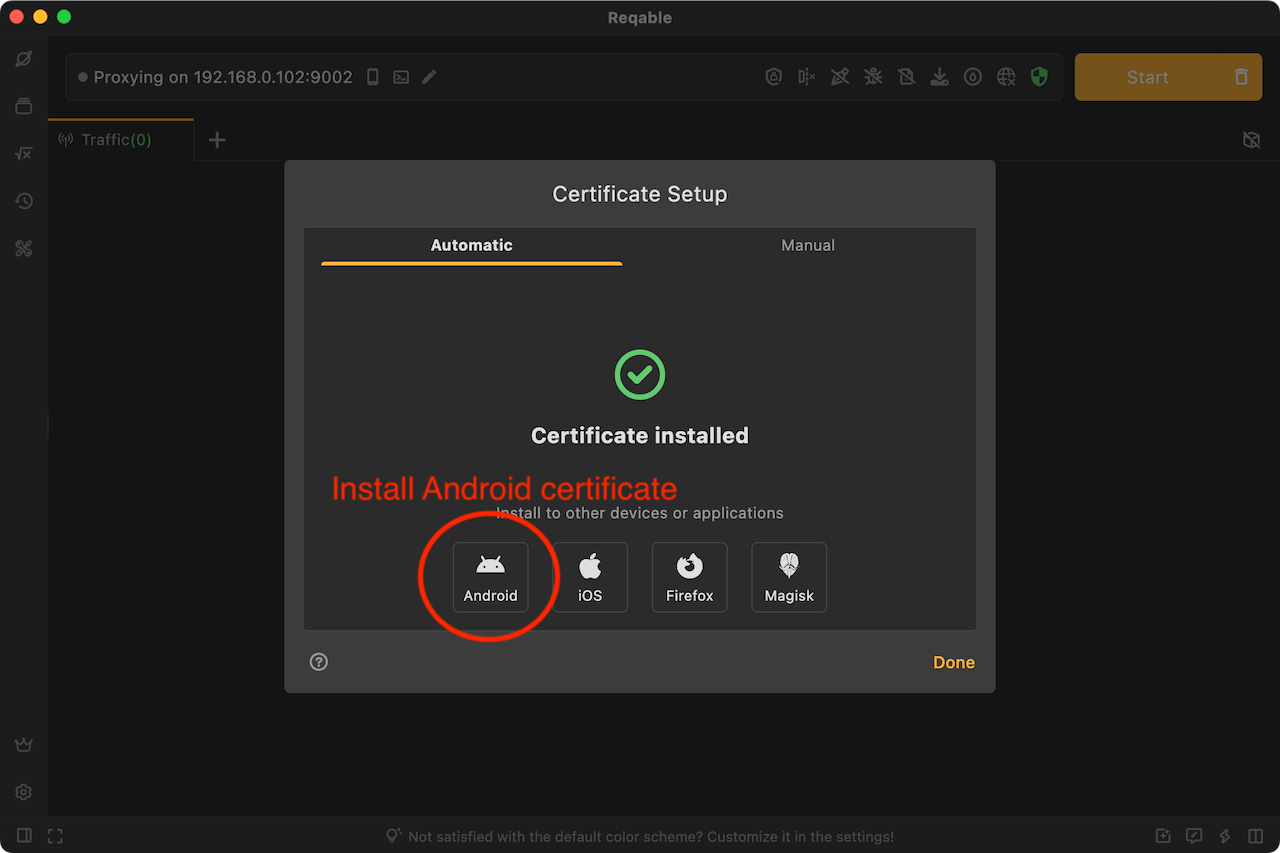
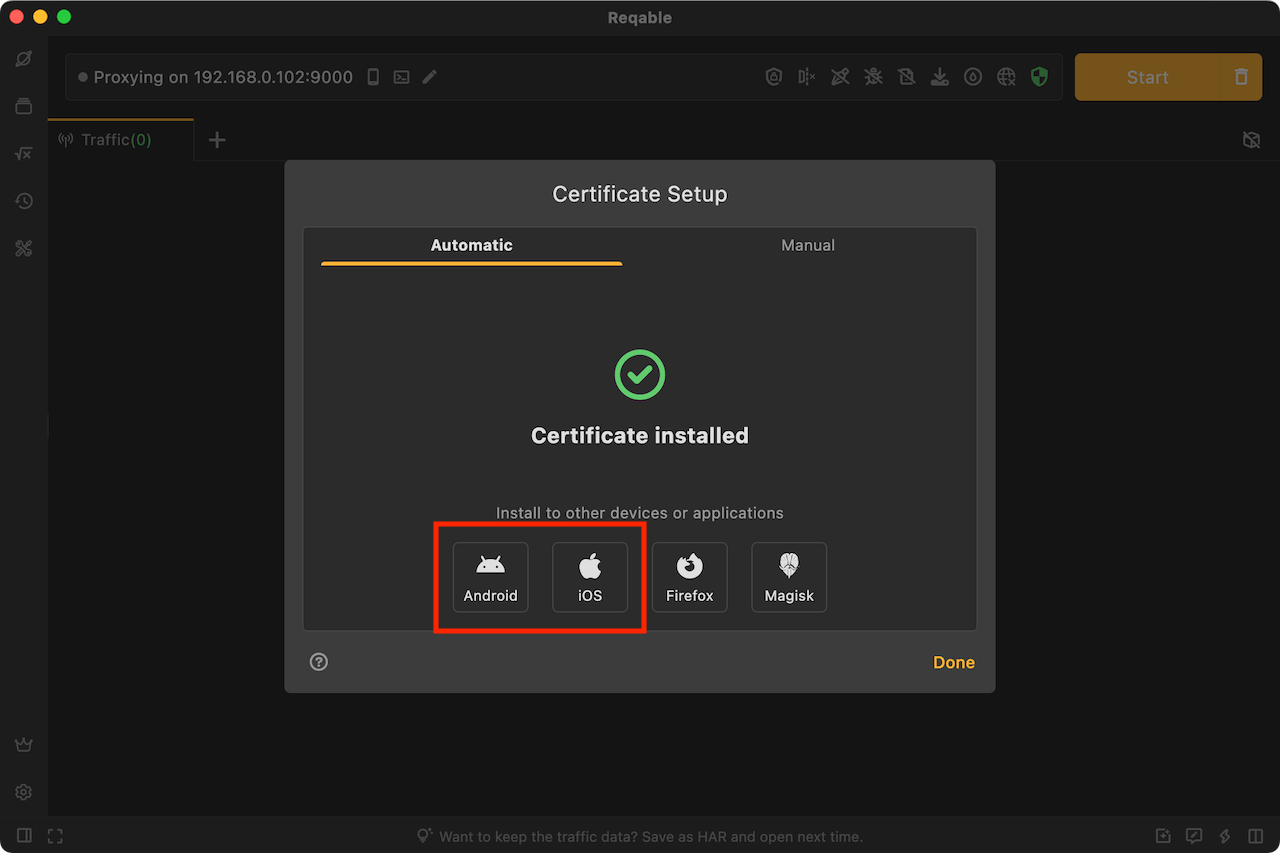
update docs

Changed region(s): [[0.25, 0.5487, 0.5312, 0.762], [0.3125, 0.9754, 0.6875, 1.0]]

diff --git a/en-US/getting-started/installation/index.md b/en-US/getting-started/installation/index.md
@@ -38,7 +38,9 @@ When the CA certificate is not installed or the installation fails, the shield i
 
 ## Mobile {#mobile}
 
-If you need to analyze mobile applications, you must install the CA certificate on the mobile device. We have built-in guidelines for installing Android and iOS certificates in Reqable. If you use desktop app, please switch to the tabs of `Android` and `iOS` to follow the steps to install. If you use mobile app, please goto `Side Menu` -> `Certificate Management` -> `Install Root Certificate to Local-Machine`, and choose a suitable solution to install.
+If you need to analyze mobile applications, you must install the CA certificate on the mobile device. We have built-in guidelines for installing Android and iOS certificates in Reqable.
+
+![](arts/installation_04.png)
 
 :::warning
 If you use the desktop app to analyze traffic, please install the CA root certificate on the computer to the mobile device; if you use the mobile app to analyze traffic directly, please install the CA root certificate on the mobile device.
@@ -52,35 +54,52 @@ After the mobile App is initialized and selects the collaborative mode and scans
 
 ### Android
 
-There are two types of Android certificates: user certificates and system certificates. User certificates are located in the `/data/misc/user/0/cacerts` directory, and system certificates are located in the `/system/etc/security/cacerts` directory. The user directory does not require additional permissions to be modified, while the system directory requires permissions to unlock the `system` partition to be modified. You can choose any appropriate certificate installation solution according to the following scenarios.
+There are two types of Android certificates: user certificate and system certificate. User certificates does not require additional permissions to install, while the system requires root permission to install.
 
-#### 1. Devices below Android 7.0
+Reqable requires that the user has installed the ADB tool on PC in advance. Reqable will use the ADB tool to check the certificate installation status of the Android device connected, including the system certificate status and the user certificate status.
 
-Devices below Android 7.0 trust user certificates by default. You can directly install the certificate to the user directory: Settings -> Security -> Encryption and Credentials -> Install Certificate -> CA Certificate, select the exported certificate and install it (authorization verification is required).
+![](arts/installation_05.png)
 
-#### 2. Rooted device and unlocked `system` partition
-
-Use the `adb` command to push the certificate to the system certificate directory. This certificate is in the `hash.0` format.
-
-```shell
-adb root
-# restarting adbd as root
-adb shell avbctl disable-verification
-adb remount
-adb push 364618e0.0 /system/etc/security/cacerts/364618e0.0
-```
-
-:::caution
-Since the Android 14 certificate is migrated to the `apex` module, this solution is only suitable for Android 13 and below.
+:::info About ADB
+Android Debug Bridge (ADB) is an Android device toolkit provided by Google and can be downloaded from the Android Developers [website](https://developer.android.google.cn/tools/adb), After downloading and installing, configure the `ANDROID_HOME` and `PATH` environment variables and restart Reqable.
 :::
 
-#### 3. Android project adds `trust-anchors`
+#### System Certificate
 
-If you are an Android developer and have the project write permission, you can directly install the certificate to the user directory, and then configure the project to trust the user directory certificate.
+Regardless of whether the device is rooted or not, Reqable can detect the installation status of the system certificate. However, only rooted devices can install the certificate with one click (supporting Android 5.0 - 15 systems).
 
-Step 1: Install the certificate on your phone: Settings -> Security -> Encryption and Credentials -> Install Certificate -> CA Certificate, select the exported certificate and install it (authorization verification is required).
+![](arts/installation_06.png)
 
-Step 2: Create res/xml/network_security_config.xml
+If the system certificate has been installed, you can skip the next step of installing the user certificate.
+
+#### User Certificate
+
+The user certificate needs to be installed manually by the user. Open the settings on the mobile and follow the steps below:
+
+Open Settings -> Security -> Encryption & Credentials -> Install a Certificate -> CA Certificate.
+
+Note that Reqable cannot detect the user certificate installation status of non-root devices and will always display "Unknown Certificate Installation Status".
+
+On devices with Android 7.0 and above, after installing the user certificate, the developer needs to perform additional configuration in the project to trust the user certificate.
+
+:::caution
+This installation is only valid for Android native apps, not for Flutter-based apps.
+:::
+
+Method 1: Add dependency in build.gradle (Recommended)
+
+```groovy
+dependencies {
+  debugImplementation("com.reqable.android:user-certificate-trust:1.0.0")
+}
+```
+
+According to the above configuration, the debug package will automatically integrate the network security configuration file. If you cannot connect to the maven central repository, please follow the instructions in method 2 to manually create and configure the network security file.
+
+Method2: Create network security config file
+
+Create file res/xml/network_security_config.xml
+
 ```xml
 <?xml version="1.0" encoding="utf-8"?>
 <network-security-config>
@@ -93,7 +112,8 @@ Step 2: Create res/xml/network_security_config.xml
 </network-security-config>
 ```
 
-Step 3: Config AndroidManifest.xml
+Config AndroidManifest.xml
+
 ```xml
 <?xml version="1.0" encoding="utf-8"?>
 <manifest>
@@ -105,40 +125,27 @@ Step 3: Config AndroidManifest.xml
 
 Please remove this configuration in the release version. For more information about the network security configuration file, please refer to: [Android Docs](https://developer.android.google.cn/training/articles/security-config).
 
-#### 4. Android project reduces `targetSdkVersion`
+#### Browser
 
-If you are an Android developer and have the project write permission. You can directly install the certificate to the user directory, and then reduce the project's `targetSdkVersion` to 23 or below.
+Successfully installing CA certificate does not mean it can be trusted by the browser, even if it is installed in the system certificate directory.
 
-Step 1: Install the certificate on the phone: Settings -> Security -> Encryption and Credentials -> Install Certificate -> CA Certificate, select the exported certificate and install it (authorization verification is required).
+##### Chrome Browser
 
-Step 2: Reduce `targetSdkVersion`.
-```gradle
-android {
-  defaultConfig {
-    ...
-    targetSdkVersion 23
-    ...
-  }
-}
-```
+Chrome's trust policy for certificates is constantly changing. For example, the latest version of Chrome will ignore the self-signed CA certificate installed in the Android system certificate directory. If you need to capture the Chrome traffic, please note:
 
-#### 5. Use magisk module to install certificate
+- If you using a higher version of Chrome, you need to install the CA certificate in the user certificate directory.
+- If you using a lower version of Chrome, you need to install the CA certificate in the system certificate directory.
 
-Reqable app provides a Magisk module package, which can install the certificate to the system directory. It supports Magisk and KernelSU, and supports Android 5+.
+If you are not sure which method to choose, you can try them two.
 
-:::caution
-After KernelSU is flashed into the device, you may need to grant Reqable root permissions, otherwise the certificate will not take effect.
-:::
+##### Firefox Browser
 
-#### 6. Chrome-based Browsers
+Firefox uses a built-in CA store. Regardless of whether the Reqable CA certificate is installed in the system directory or the user directory, it will not be trusted, and the user needs to perform additional actions.
 
-Chrome (and subsequently many other Chromium-based browsers) has recently started requiring Certificate Transparency logs for CA certs found in the system certificate store.
+- Firefox settings -> About Firefox -> Click on the top logo 5 times to enable the debug menu.
+- Firefox settings -> Secret Settings -> Enable Use third party CA certificates.
 
-Even if the certificate has been successfully installed in the system directory, the `NET:ERR_CERTIFICATE_TRANSPARENCY_REQUIRED` will still occur. In this case, please remove the certificate from the system directory and install it in the user directory. The Chrome kernel browser will trust the user certificate by default and will not perform CT log verification.
-
-#### 7. Flutter Apps
-
-App developed with the Flutter only trust system certificates, not user directory certificates. This is hardcoded into the framework. Neither configuring `network_security_config.xml` nor lowering `targetSdkVersion` will take effect.
+After completing the above steps, install the CA certificate in the user directory to take effect.
 
 ### iOS
 

diff --git a/zh-CN/capture/38_proxy_terminal.md b/zh-CN/capture/38_proxy_terminal.md
@@ -1,0 +1,32 @@
+# 代理终端
+
+在命令行中发送HTTP请求或者运行程序的时候，这些请求的流量不会经过Reqable。之前的处理方式是，手动在命令行终端配置环境变量（例如HTTP_PROXY），或者在脚本代码中指定代理地址。这些方式虽然能工作，但是需要手动处理，繁琐效率低。
+
+另外，很多脚本的网络框架不信任系统安装的CA证书，设置完抓包代理后请求还会报错，比如Python的requests网络框架。
+
+Reqable提供了代理终端功能，可以一键启动终端并且自动配置好代理环境和解决CA证书信任问题。
+
+:::info
+使用此功能需要更新Reqable到v2.26.0及以上版本。
+:::
+
+### 使用方式
+
+从应用顶部快捷操作栏可以点击图标启动终端窗口（快捷键`Alt` + `T`），或者从应用**工具**菜单中启动。启动的终端窗口会显示`Reqable`的艺术字以及可以出现配置成功的提示。
+
+![](arts/proxy_terminal_01.png)
+
+在自动打开的终端窗口中执行命令发送网络请求的流量可以被Reqable拦截，显示在调试列表中。
+
+![](arts/proxy_terminal_02.png)
+
+- 在Mac系统上，支持Apple官方的Terminal终端。
+- 在Windows系统上，支持CMD（默认）终端和PowerShell（图标右键菜单中可以切换默认启动终端）。
+- 在Linux系统上，支持Ubuntu的gnome console和KDE的konsole。
+
+代理终端目前支持下列网络框架：
+
+- NodeJS的axios、got、fetch等网络库.
+- Python的request、requests、aiohttp、httplib网络库.
+- Ruby的http、net/http网络库.
+

diff --git a/en-US/capture/38_proxy_terminal.md b/en-US/capture/38_proxy_terminal.md
@@ -1,0 +1,31 @@
+# Proxy Terminal
+
+When sending HTTP(s) requests or executing scripts in the command line, the traffic of these requests will not pass through Reqable. The developer must to manually configure the environment variables (such as HTTP_PROXY) in the terminal, or specify the proxy address in the source code. Although these methods can work, but inefficient.
+
+In addition, many network libs do not trust the CA certificates installed by the system. After setting up the debugging proxy, the request will still report an error, such as Python's requests.
+
+Reqable can start a terminal with one click and automatically configure the proxy environment and solve the CA certificate trust issue.
+
+:::info
+This feature is available in version v2.26.0+.
+:::
+
+### How to use
+
+Click the icon in the quick bar at the top of the application to start the terminal window (shortcut keys `Alt` + `T`), or start it from the **Tools** menu. The started terminal window will display the `Reqable` art text and a prompt that the configuration is done.
+
+![](arts/proxy_terminal_01.png)
+
+HTTP(s) requests in the terminal can be intercepted by Reqable and displayed in the traffic list.
+
+![](arts/proxy_terminal_02.png)
+
+- On Mac, Apple Terminal is supported.
+- On Windows, CMD (default) and PowerShell are supported (Switch in the context menu of the icon).
+- On Linux, Ubuntu's gnome console and KDE's konsole are supported.
+
+The proxy terminal currently supports the following network libs:
+
+- NodeJS's axios, got, fetch.
+- Python's request, requests, aiohttp, httplib.
+- Ruby's http, net/http.

diff --git a/en-US/capture/29_network-condition.md b/en-US/capture/29_network-condition.md
@@ -1,7 +1,5 @@
 # Network Condition
 
-import Shortcut from '@site/src/components/Shortcut';
-
 Reqable supports setting network conditions for specified domain names and simulating different network environments, such as offline, weak network, 2G, etc.
 
 :::info
@@ -11,7 +9,7 @@ This feature is available in version v2.23.0+.
 
 ### How to use
 
-Select `Network Condition` from the `Tools` menu or use the shortcut <Shortcut>Alt + J</Shortcut> to open the configuration page.
+Select `Network Condition` from the `Tools` menu or use the shortcut `Alt` + `J` to open the configuration page.
 
 ![](arts/network_condition_01.png)
 
